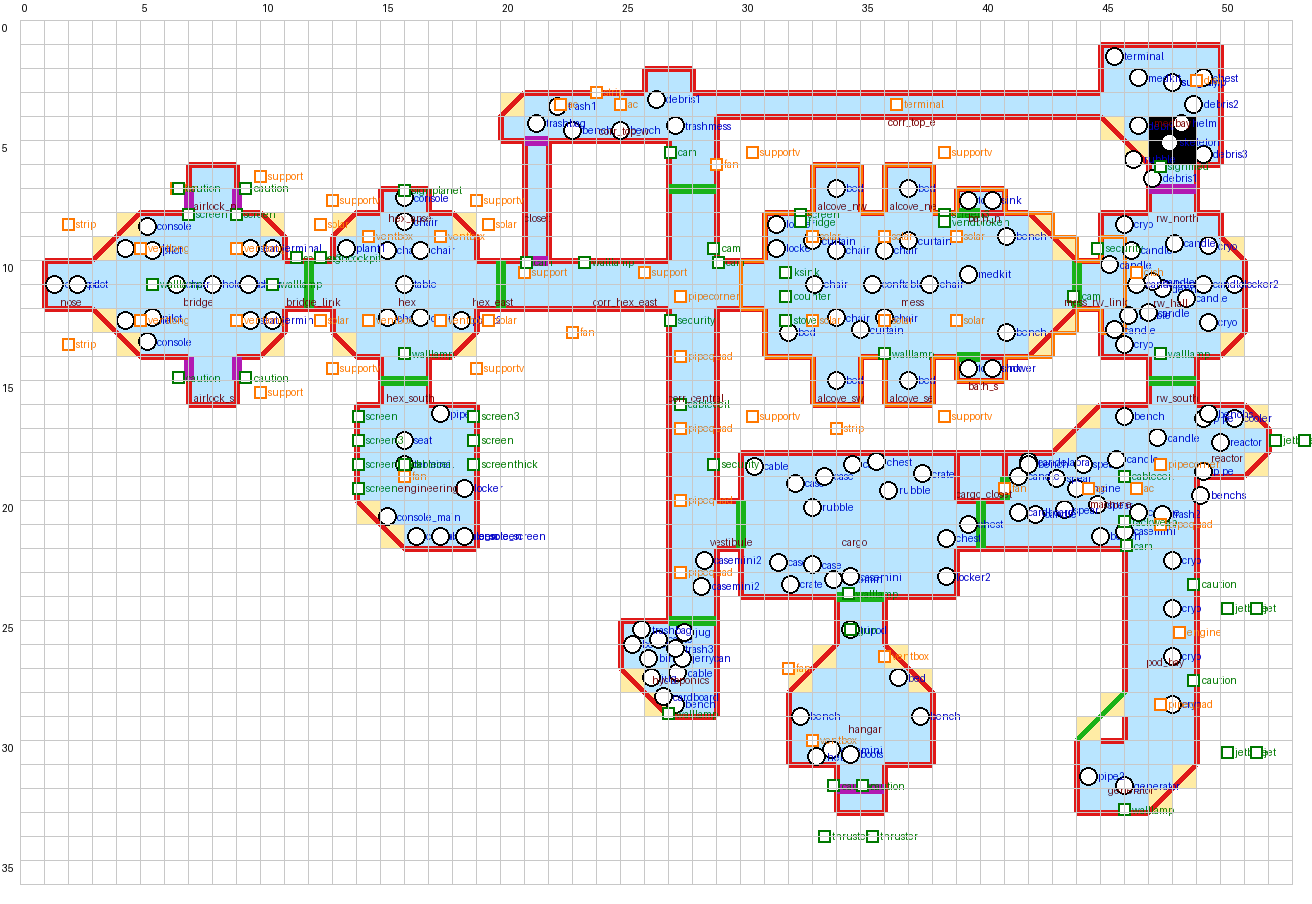
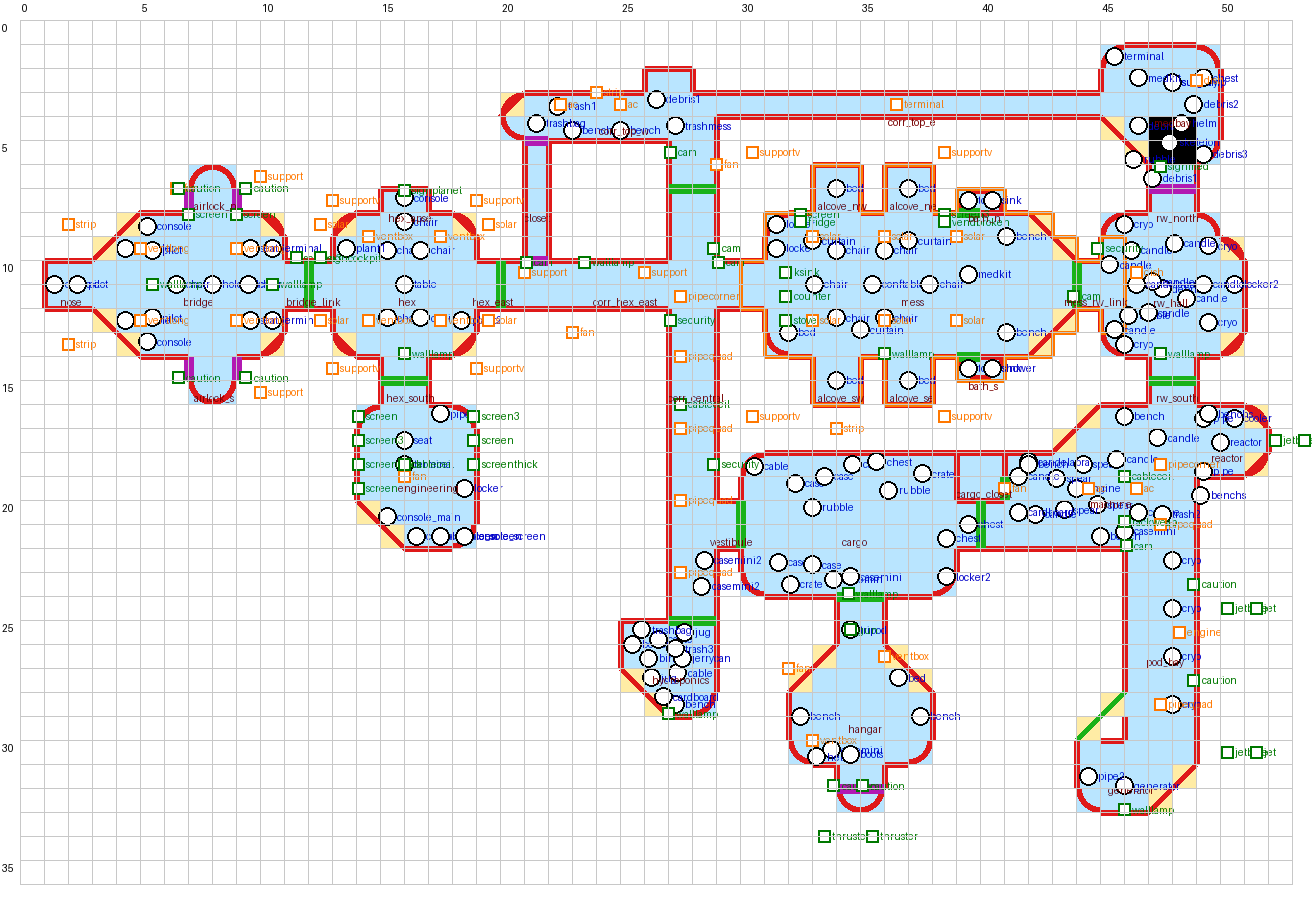
Rounded hull corners and 2x2 ribbed exterior walls from the calibrated pieces
Claude-Session: https://claude.ai/code/session_01LS2iC6TNCLvqsUWHCNTL2V

diff --git a/tools/build_grasshopper.py b/tools/build_grasshopper.py
@@ -102,6 +102,11 @@ A = {
     "hullfloor1": ("0f1c53e1-ca89-4776-bdb7-b4acd726fbbf", "Hull01_floor1x1"),
     "hullfloor2": ("73b12504-0f23-4b3f-b814-50db20c004f0", "Hull01_floor2x2"),
     "hullwall": ("09f8bec6-263d-4e96-bef5-eba63f27a114", "space ship wall 1x1 basic"),  # same wall as inside
+    # shaped pieces verified with the calibration slab (footprint and rotation-0 orientation)
+    "ribbed": ("3d415700-51fd-443b-bc45-d0189e66f3c0", "space ship wall 2x2 ribbed"),      # 2 long along x
+    "window2": ("9a3fac1c-2df5-40e8-9d24-07c79970eee6", "space ship wall 2x2 window"),     # 2 long along x
+    "cornercurved": ("dddb8739-297a-49b2-a348-38fbd2add877", "space ship wall 1x1 corner curved"),  # arc bulges NE at rot 0
+    "ceilcurved": ("e7f8f9a7-17ae-462a-8b54-597509d2444f", "space ship ceiling 1x1 curved soft"),   # rounded NE corner at rot 0
     "window": ("6a8f68a5-1eb4-4311-b712-49fc6329d0de", "wall window 1x1"),
     "labwindow": ("ab754a73-69ae-4581-99f0-3d3c969ee8e7", "Lab wall with window 1x1"),
     "jet": ("c4958c89-46fd-4b6a-a042-008c1b4ba8d8", "Jet Engine"),
@@ -544,10 +549,12 @@ def main(out_dir):
 
     # --- walls from floor edges
     edges = {}  # ('h'|'v', col, row) -> kind
+    exterior = set()
     for (c, r) in floor:
         for key, nb in neighbours4(c, r).items():
             if nb not in all_cells:
                 edges[key] = "wall"
+                exterior.add(key)
     for key in PARTITIONS:
         edges[key] = "wall"
     for key, kind in DOORS.items():
@@ -598,14 +605,55 @@ def main(out_dir):
         else:             # runs along z, boundary at plan col c, cells rows r..r+length-1
             add(slab, asset, c - WALL_T / 2, y, wz(r + length), rot_z)
 
+    # rounded exterior corners: a convex corner cell whose two outside edges are plain walls gets a
+    # curved corner wall (arc bulging outward) instead of the two straight pieces; the roof gets a
+    # matching rounded cap. Rotation: NE 0, SE 90, SW 180, NW 270 (clockwise seen from above).
+    CORNERS = {"NE": ((0, -1), (1, 0), 0), "SE": ((0, 1), (1, 0), 90), "SW": ((0, 1), (-1, 0), 180), "NW": ((0, -1), (-1, 0), 270)}
+    round_cells = {}   # cell -> rot
+    for (c, r) in sorted(floor):
+        for name, ((dc1, dr1), (dc2, dr2), rot) in CORNERS.items():
+            n1, n2 = (c + dc1, r + dr1), (c + dc2, r + dr2)
+            if n1 in all_cells or n2 in all_cells:
+                continue
+            e1 = ("h", c, r) if dr1 < 0 else ("h", c, r + 1)
+            e2 = ("v", c, r) if dc2 < 0 else ("v", c + 1, r)
+            if edges.get(e1) != "wall" or edges.get(e2) != "wall" or e1 in WINDOW_EDGES or e2 in WINDOW_EDGES:
+                continue
+            if (c, r) in round_cells:
+                continue
+            edges[e1] = edges[e2] = "none"
+            round_cells[(c, r)] = rot
+            add(s_walls, "cornercurved", c, 0, wz(r + 1), rot)
+    # single-cell chamfers become rounded corners as well (the plan's round room, bridge, hall)
+    for seg in list(DIAG_WALLS):
+        (c0, r0), (c1, r1) = seg[0], seg[1]
+        if len(seg) > 2 or abs(c1 - c0) != 1 or abs(r1 - r0) != 1:
+            continue
+        cc, cr = min(c0, c1), min(r0, r1)
+        for (dc, dr), rot in {(-1, 1): 0, (-1, -1): 90, (1, -1): 180, (1, 1): 270}.items():
+            if (cc + dc, cr + dr) in floor:          # floor on the inside diagonal -> arc on the opposite corner
+                round_cells[(cc, cr)] = rot
+                add(s_walls, "cornercurved", cc, 0, wz(cr + 1), rot)
+                break
+    ROUNDED_DIAGS = {seg for seg in DIAG_WALLS if len(seg) == 2 and abs(seg[1][0] - seg[0][0]) == 1
+                     and abs(seg[1][1] - seg[0][1]) == 1}
+
     handled = set()
     for (axis, c, r), kind in sorted(edges.items()):
-        if (axis, c, r) in handled:
+        if (axis, c, r) in handled or kind == "none":
             continue
         asset = {"wall": "wall", "door": "door", "hatch": "hatch", "door2": "door2"}[kind]
         if kind == "wall" and (axis, c, r) in WINDOW_EDGES:
             asset = "labwindow" if (axis, c, r) in LAB_WINDOWS else "window"
         length = 1
+        if kind == "wall" and (axis, c, r) in exterior:   # pair exterior walls into 2-long shaped pieces
+            nxt = (axis, c + 1, r) if axis == "h" else (axis, c, r + 1)
+            if edges.get(nxt) == "wall" and nxt in exterior and nxt not in handled:
+                w1, w2 = (axis, c, r) in WINDOW_EDGES, nxt in WINDOW_EDGES
+                if w1 == w2 and not ((axis, c, r) in LAB_WINDOWS or nxt in LAB_WINDOWS):
+                    asset = "window2" if w1 else "ribbed"
+                    handled.add(nxt)
+                    length = 2
         if kind == "door2":  # pair the two halves of a double door
             nxt = (axis, c + 1, r) if axis == "h" else (axis, c, r + 1)
             if edges.get(nxt) == "door2" and nxt not in handled:
@@ -617,6 +665,8 @@ def main(out_dir):
 
     # diagonal walls (interior) + matching exterior hull diagonals one cell further out
     for seg in DIAG_WALLS:
+        if seg in ROUNDED_DIAGS:
+            continue
         (c0, r0), (c1, r1) = seg[0], seg[1]
         is_door = len(seg) > 2 and seg[2] == "door"
         x0, z0, x1, z1 = c0, wz(r0), c1, wz(r1)
@@ -639,13 +689,16 @@ def main(out_dir):
 
     # corner pillars where two wall lines meet (clipped into the corner)
     pts = {}
-    for (axis, c, r) in edges:
+    for (axis, c, r), kind in edges.items():
+        if kind == "none":
+            continue
         a, b = ((c, r), (c + 1, r)) if axis == "h" else ((c, r), (c, r + 1))
         for p_ in (a, b):
             pts.setdefault(p_, set()).add(axis)
     for (c, r), axes in sorted(pts.items()):
         if len(axes) == 2 and any(nb in floor for nb in ((c, r), (c - 1, r), (c, r - 1), (c - 1, r - 1))):
             add(s_detail, "pillar", c, 0, wz(r), 0)
+    # (edges set to "none" above were not placed, so no pillar is generated at rounded corners)
 
     # light strips along corridor walls, pushed slightly into the wall
     for name in LIT_ROOMS:
@@ -720,7 +773,9 @@ def main(out_dir):
         add(s_hull, "hullwall", c, 0, wz(r + 1) + 0.5 - WALL_T / 2, rot_x)
         add(s_hull, "hullwall", c + 0.5 - WALL_T / 2, 0, wz(r + 1), rot_z)
     roof_cells = hull_cells - BREACH_CELLS
-    plate(s_hull, roof_cells - skylight - DUCT_HATCHES, ROOF_Y, lambda cell: ("floor1", "floor2"))
+    for (c, r), rot in sorted(round_cells.items()):
+        add(s_hull, "ceilcurved", c, ROOF_Y, wz(r + 1), rot)
+    plate(s_hull, roof_cells - skylight - DUCT_HATCHES - set(round_cells), ROOF_Y, lambda cell: ("floor1", "floor2"))
     plate(s_hull, skylight, ROOF_Y, lambda cell: ("glass1", "glass2"))
     for (c, r) in sorted(DUCT_HATCHES):
         add(s_hull, "hatchfloor", c, ROOF_Y, wz(r + 1), 0)
@@ -781,7 +836,7 @@ def main(out_dir):
         print(f"{name:45s} assets={n:5d} kinds={k:3d} chars={ln}")
     lo, hi = full.bounds()
     print("bounds", lo, hi)
-    return floor, DIAG_CELLS, edges, DIAG_WALLS, ring, tier
+    return floor, DIAG_CELLS, edges, DIAG_WALLS, ring, tier, round_cells
 
 
 if __name__ == "__main__":

diff --git a/tools/render_preview.py b/tools/render_preview.py
@@ -9,7 +9,7 @@ import build_grasshopper as bg  # noqa: E402
 
 
 def render(out_png, plan_png=None, X0=117.0, Y0=164.0, P=59.1):
-    floor, diag, edges, diag_walls, ring, tier = bg.main(os.path.join(os.path.dirname(__file__), "..", "grasshopper"))
+    floor, diag, edges, diag_walls, ring, tier, round_cells = bg.main(os.path.join(os.path.dirname(__file__), "..", "grasshopper"))
     if plan_png:
         im = Image.open(plan_png).convert("RGBA")
     else:
@@ -30,7 +30,15 @@ def render(out_png, plan_png=None, X0=117.0, Y0=164.0, P=59.1):
     for (c, r) in diag:
         d.rectangle([px(c, r), px(c + 1, r + 1)], fill=(255, 200, 0, 90))
     colors = {"wall": (220, 0, 0, 230), "door": (0, 170, 0, 230), "door2": (0, 170, 0, 230), "hatch": (170, 0, 170, 230)}
+    for (c, r), rot in round_cells.items():
+        cx, cy = {0: (c, r + 1), 90: (c, r), 180: (c + 1, r), 270: (c + 1, r + 1)}[rot]
+        start = {0: 270, 90: 0, 180: 90, 270: 180}[rot]
+        x0, y0 = px(cx - 1, cy - 1)
+        x1, y1 = px(cx + 1, cy + 1)
+        d.arc([x0, y0, x1, y1], start=start, end=start + 90, fill=(220, 0, 0, 230), width=6)
     for (axis, c, r), kind in edges.items():
+        if kind == "none":
+            continue
         col = colors[kind]
         w = 6 if kind == "wall" else 10
         if axis == "h":
